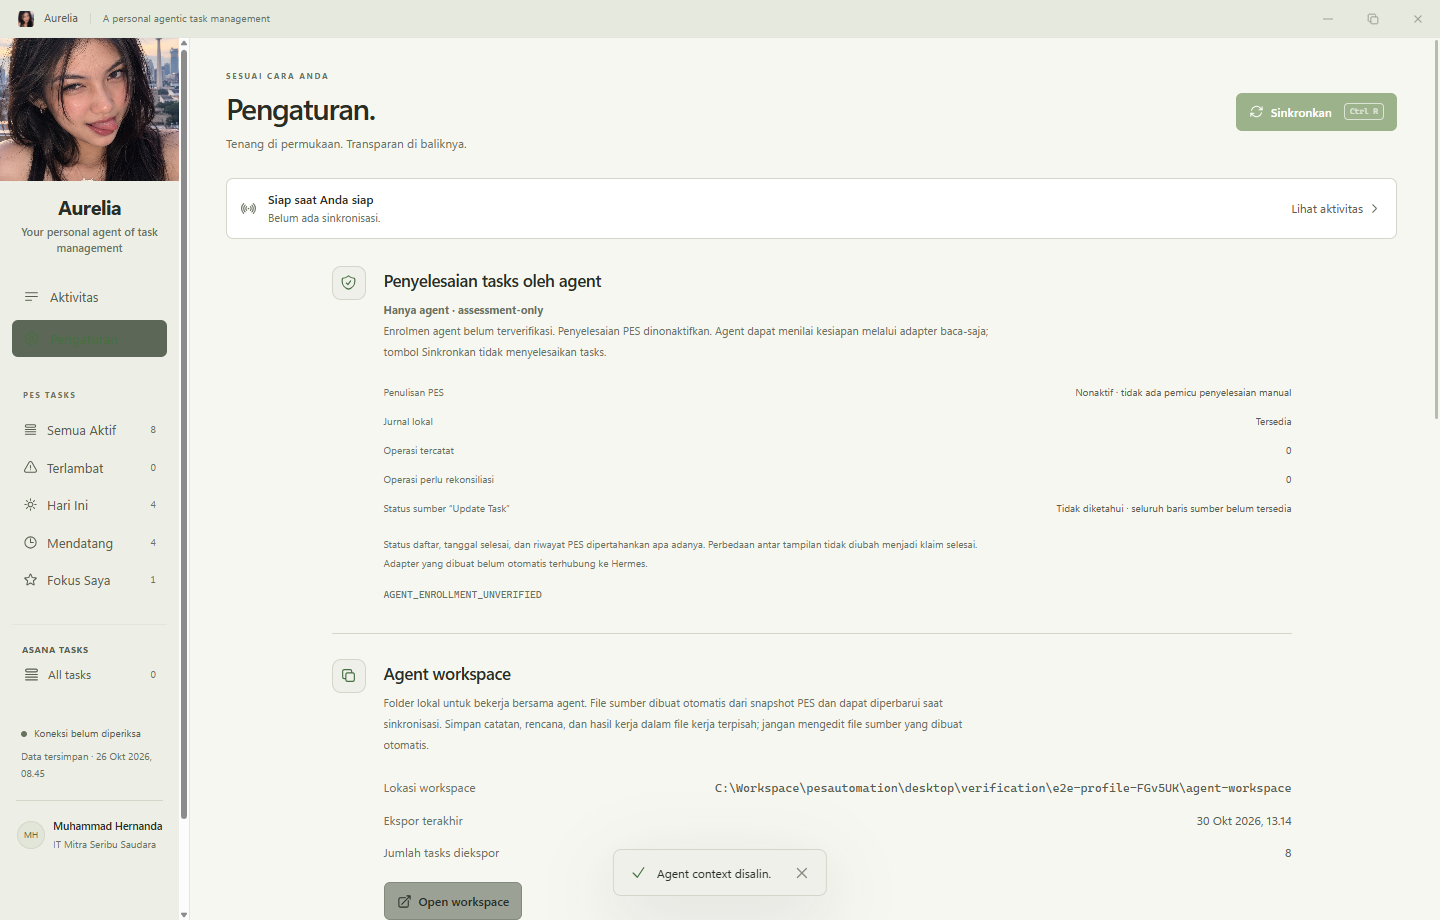
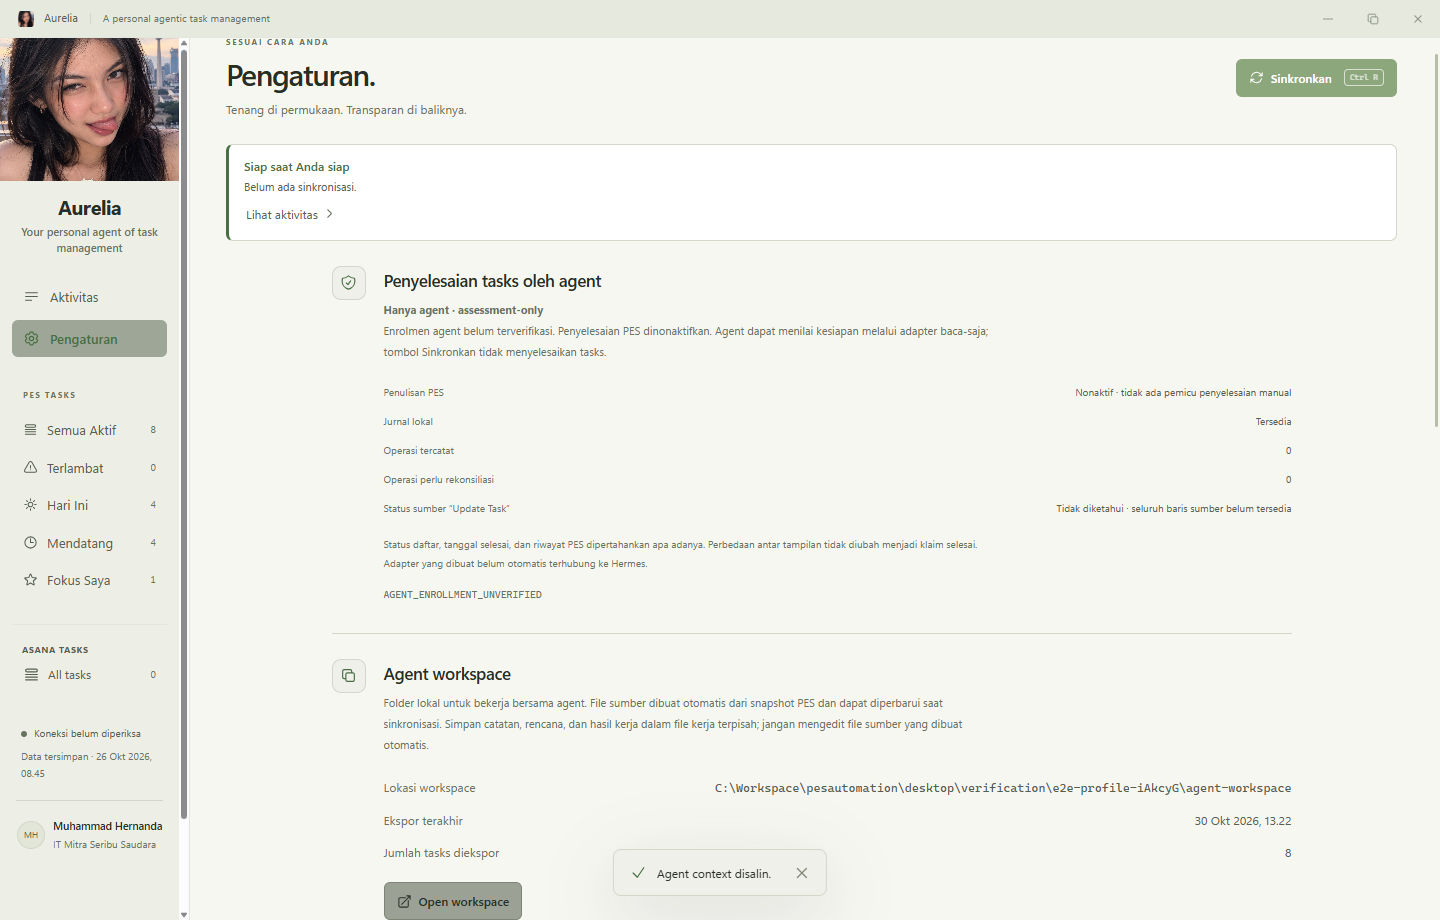
style: unify PES list spacing, typography, and layout rhythm with Asana

diff --git a/desktop/src/renderer/styles.css b/desktop/src/renderer/styles.css
@@ -54,52 +54,85 @@ body{font-size:14px}.task-row h3{font-size:14px;line-height:1.6}.task-id{font-si
 .pes-evidence-btns { display: flex; gap: 8px; margin-top: 4px; }
 .pes-evidence-btns .button { flex: 1; font-size: 11px; padding: 6px 10px; justify-content: center; }
 .pes-complete-btn { margin-top: 6px; width: 100%; justify-content: center; padding: 8px; font-weight: 600; gap: 8px; }
-/* PES Section Groups & Table Styling — Clean, structured like Asana */
+/* PES Section Groups & Table Styling — Fully aligned with Asana rhythm */
+.main.task-main { padding: 30px 28px 20px !important; flex: 1; min-width: 0; overflow: auto; overscroll-behavior: contain; scrollbar-gutter: stable; }
+.main.task-main .page-header { display: flex !important; align-items: flex-start !important; justify-content: space-between !important; gap: 20px !important; margin-bottom: 20px !important; }
+.main.task-main .page-header .eyebrow { color: var(--accent) !important; font-size: 10px !important; font-weight: 650 !important; letter-spacing: .13em !important; margin-bottom: 5px !important; text-transform: uppercase; }
+.main.task-main .page-header h1 { font-size: 30px !important; font-weight: 650 !important; letter-spacing: -.04em !important; line-height: 1.25 !important; margin: 0 !important; }
+.main.task-main .page-header p { margin-top: 7px !important; color: var(--text-secondary) !important; font-size: 12px !important; max-width: 56ch !important; line-height: 1.5 !important; }
+
+.sync-banner { display: flex !important; flex-direction: column !important; align-items: flex-start !important; gap: 4px !important; border: 1px solid var(--border-default) !important; border-left: 3px solid var(--accent) !important; border-radius: 7px !important; background: var(--bg-surface) !important; padding: 12px 15px !important; margin-bottom: 18px !important; }
+.sync-banner.error { border-color: var(--danger) !important; border-left: 3px solid var(--danger) !important; background: var(--danger-soft) !important; }
+.sync-banner-icon { display: none !important; }
+.sync-banner-text strong { color: var(--accent) !important; font-size: 12px !important; font-weight: 600 !important; }
+.sync-banner.error .sync-banner-text strong { color: var(--danger) !important; }
+.sync-banner-text span { color: var(--text-secondary) !important; font-size: 11px !important; margin-top: 2px !important; display: block !important; }
+
+.list-toolbar { display: flex !important; align-items: center !important; gap: 10px !important; margin-bottom: 14px !important; }
+.list-toolbar .search-field { flex: 1 !important; min-width: 0 !important; display: flex !important; align-items: center !important; gap: 9px !important; padding: 0 12px !important; background: var(--bg-surface) !important; border: 1px solid var(--border-default) !important; border-radius: 7px !important; min-height: 42px !important; height: 42px !important; }
+.list-toolbar .search-field:focus-within { border-color: var(--focus-ring) !important; outline: 1px solid var(--focus-ring) !important; }
+.list-toolbar .search-field svg { color: var(--text-muted) !important; width: 16px; height: 16px; }
+.list-toolbar .search-field input { width: 100% !important; flex: 1 !important; border: 0 !important; padding: 10px 0 !important; background: transparent !important; min-height: 40px !important; font-size: 13px !important; color: var(--text-primary) !important; }
+.list-toolbar .search-field input:focus-visible { outline: none !important; }
+.list-toolbar .filter-row { display: flex !important; align-items: center !important; gap: 8px !important; }
+.list-toolbar .select-wrap { position: relative !important; display: inline-flex !important; align-items: center !important; }
+.list-toolbar select { color: var(--text-primary) !important; background: var(--bg-surface) !important; border: 1px solid var(--border-default) !important; border-radius: 6px !important; min-height: 36px !important; height: 36px !important; padding: 0 12px 0 32px !important; font-size: 12px !important; }
+.list-toolbar .select-wrap svg { position: absolute !important; left: 10px !important; pointer-events: none !important; color: var(--text-muted) !important; width: 14px !important; height: 14px !important; }
+.list-toolbar .text-button { min-height: 36px !important; height: 36px !important; font-size: 12px !important; padding: 0 12px !important; border-radius: 6px !important; background: var(--bg-surface) !important; border: 1px solid var(--border-default) !important; color: var(--text-secondary) !important; }
+.list-toolbar .text-button:hover { background: var(--bg-elevated) !important; color: var(--text-primary) !important; }
+
+.summary { display: flex !important; align-items: center !important; gap: 18px !important; padding: 14px 0 10px !important; border-bottom: 0 !important; margin-bottom: 10px !important; font-size: 12px !important; }
+.summary > div { display: inline-flex !important; align-items: baseline !important; gap: 5px !important; font-size: 12px !important; }
+.summary strong { font-size: 13px !important; font-weight: 650 !important; letter-spacing: normal !important; font-variant-numeric: tabular-nums !important; color: var(--text-primary) !important; }
+.summary span { font-size: 11.5px !important; color: var(--text-muted) !important; }
+.summary-scope, .list-heading { display: none !important; }
+
 .pes-sr-only { position: absolute; width: 1px; height: 1px; padding: 0; margin: -1px; overflow: hidden; clip: rect(0, 0, 0, 0); border: 0; }
-.pes-group { margin-bottom: 20px; border: 1px solid var(--border-default); border-radius: 8px; background: var(--bg-surface); overflow: auto; }
-.pes-group-header { margin: 0; background: var(--bg-elevated); border-bottom: 1px solid var(--border-faint); display: flex; align-items: center; justify-content: space-between; }
-.pes-group-toggle { width: 100%; display: flex; align-items: center; gap: 9px; padding: 12px 16px; background: transparent; font-size: 12px; font-weight: 650; color: var(--text-primary); text-align: left; }
-.pes-group-toggle:hover { background: var(--bg-strong); }
-.pes-group-title { flex: 1; min-width: 0; font-size: 12px; font-weight: 650; letter-spacing: 0.3px; }
-.pes-group-badge { font-size: 11px; font-weight: 500; color: var(--text-muted); background: var(--bg-root); padding: 2px 10px; border-radius: 12px; border: 1px solid var(--border-faint); flex-shrink: 0; }
+.pes-group { margin-bottom: 18px !important; border: 1px solid var(--border-default) !important; border-radius: 8px !important; background: var(--bg-surface) !important; overflow: auto !important; }
+.pes-group-header { margin: 0 !important; background: var(--bg-elevated) !important; border-bottom: 1px solid var(--border-faint) !important; display: flex !important; align-items: center !important; justify-content: space-between !important; }
+.pes-group-toggle { flex: 1 !important; min-width: 0 !important; background: transparent !important; display: flex !important; align-items: center !important; gap: 9px !important; text-align: left !important; padding: 12px 14px !important; color: var(--text-primary) !important; font-size: 12px !important; font-weight: 600 !important; }
+.pes-group-toggle:hover { background: var(--bg-strong) !important; }
+.pes-group-title { flex: 1 !important; min-width: 0 !important; font-size: 12px !important; font-weight: 600 !important; }
+.pes-group-badge { color: var(--text-muted) !important; font-size: 10px !important; font-weight: 400 !important; background: transparent !important; border: 0 !important; padding: 0 !important; flex-shrink: 0 !important; }
 
-.pes-table { width: 100%; border-collapse: collapse; text-align: left; font-size: 12px; min-width: 720px; }
-.pes-table th { color: var(--text-muted); font-weight: 500; font-size: 10.5px; padding: 10px 14px; border-bottom: 1px solid var(--border-faint); white-space: nowrap; text-transform: uppercase; letter-spacing: 0.5px; }
-.pes-table td { padding: 12px 14px; border-bottom: 1px solid var(--border-faint); vertical-align: middle; color: var(--text-secondary); font-size: 12px; }
-.pes-table tr.task-row { display: table-row !important; border-bottom: 1px solid var(--border-faint); padding: 0 !important; cursor: pointer; transition: background 0.12s ease; }
+.pes-table { width: 100% !important; border-collapse: collapse !important; text-align: left !important; font-size: 12px !important; min-width: 620px !important; }
+.pes-table th { color: var(--text-muted) !important; font-weight: 500 !important; font-size: 10px !important; padding: 9px 13px !important; border-bottom: 1px solid var(--border-faint) !important; white-space: nowrap !important; text-transform: uppercase !important; letter-spacing: 0.5px !important; }
+.pes-table td { padding: 14px 13px !important; border-bottom: 1px solid var(--border-faint) !important; vertical-align: top !important; color: var(--text-secondary) !important; font-size: 12px !important; }
+.pes-table tr.task-row { display: table-row !important; border-bottom: 1px solid var(--border-faint) !important; padding: 0 !important; cursor: pointer; transition: background 0.12s ease; }
 .pes-table tr.task-row:hover { background: var(--bg-elevated) !important; }
-.pes-table tr.task-row.is-selected, .pes-table tr.task-row[data-selected="true"] { background: var(--accent-soft) !important; box-shadow: inset 3px 0 var(--accent); }
-.pes-table tr:last-child td { border-bottom: 0; }
+.pes-table tr.task-row.is-selected, .pes-table tr.task-row[data-selected="true"] { background: var(--accent-soft) !important; box-shadow: inset 3px 0 var(--accent) !important; }
+.pes-table tr:last-child td { border-bottom: 0 !important; }
 
-.pes-task-cell { width: 42%; min-width: 240px; }
+.pes-task-cell { width: 36% !important; min-width: 200px !important; }
 .pes-task-btn { display: block; width: 100%; background: transparent !important; border: 0 !important; padding: 0 !important; text-align: left; cursor: pointer; color: inherit; font: inherit; }
-.pes-task-btn h3 { font-size: 13.5px !important; font-weight: 600 !important; line-height: 1.5 !important; color: var(--text-primary); margin: 0 0 3px 0; transition: color 0.15s ease; }
+.pes-task-btn h3 { font-size: 13px !important; font-weight: 550 !important; color: var(--text-primary) !important; line-height: 1.65 !important; margin: 0 !important; transition: color 0.15s ease; }
 .pes-task-btn:hover h3 { color: var(--accent); text-decoration: underline; text-underline-offset: 3px; }
-.pes-row-desc { font-size: 11px; line-height: 1.5; color: var(--text-muted); margin: 3px 0 4px 0; display: -webkit-box; -webkit-line-clamp: 2; -webkit-box-orient: vertical; overflow: hidden; text-overflow: ellipsis; white-space: pre-wrap; word-break: break-word; }
-.pes-row-meta { display: flex; flex-wrap: wrap; align-items: center; gap: 6px 8px; margin-top: 4px; }
+.pes-row-desc { font-size: 11px !important; line-height: 1.5 !important; color: var(--text-muted) !important; margin: 3px 0 5px !important; display: -webkit-box !important; -webkit-line-clamp: 2 !important; -webkit-box-orient: vertical !important; overflow: hidden !important; text-overflow: ellipsis !important; white-space: pre-wrap !important; word-break: break-word !important; }
+.pes-row-meta { display: flex !important; flex-wrap: wrap !important; align-items: baseline !important; gap: 5px 10px !important; font-size: 10px !important; margin-top: 5px !important; }
+.pes-table .task-id { color: var(--text-muted) !important; font-size: 10px !important; }
 
-.pes-status-cell { width: 130px; white-space: nowrap; }
-.pes-target-cell { width: 110px; white-space: nowrap; }
+.pes-status-cell { width: 120px; white-space: nowrap; }
+.pes-target-cell { width: 105px; white-space: nowrap; }
 .pes-target-wrap { display: inline-flex; align-items: center; gap: 6px; }
 .pes-target-badge { font-weight: 600; font-size: 11px; padding: 2px 7px; border-radius: 4px; background: var(--bg-elevated); border: 1px solid var(--border-default); color: var(--text-primary); }
 .pes-bobot-text { font-size: 10.5px; color: var(--text-muted); }
 
-.pes-due-cell { width: 140px; white-space: nowrap; }
+.pes-due-cell { width: 135px; white-space: nowrap; }
 .pes-due-wrap { display: flex; flex-direction: column; gap: 2px; }
-.pes-due-date { font-size: 11.5px; font-weight: 500; color: var(--text-primary); }
+.pes-due-date { font-size: 11px; font-weight: 500; color: var(--text-primary); }
 .pes-deadline-label { font-size: 10.5px; color: var(--text-muted); display: inline-flex; align-items: center; gap: 4px; }
 .pes-deadline-label.overdue { color: var(--danger); font-weight: 600; }
 .pes-deadline-label.today { color: var(--accent); font-weight: 600; }
 .pes-deadline-label.completed { color: var(--text-muted); }
 
-.pes-finish-cell { width: 120px; white-space: nowrap; font-size: 11.5px; color: var(--text-secondary); }
-.pes-lampiran-cell { width: 130px; white-space: nowrap; }
-.pes-lampiran-badge { display: inline-flex; align-items: center; gap: 5px; font-size: 11px; color: var(--accent); max-width: 140px; overflow: hidden; text-overflow: ellipsis; white-space: nowrap; }
+.pes-finish-cell { width: 110px; white-space: nowrap; font-size: 11px; color: var(--text-secondary); }
+.pes-lampiran-cell { width: 125px; white-space: nowrap; }
+.pes-lampiran-badge { display: inline-flex; align-items: center; gap: 5px; font-size: 11px; color: var(--accent); max-width: 130px; overflow: hidden; text-overflow: ellipsis; white-space: nowrap; }
 .pes-action-cell { width: 44px; text-align: center; }
 
 /* Group Accents */
 .pes-group.pes-group-update-task .pes-group-header { border-left: 3px solid var(--accent); }
-.pes-group.pes-group-update-task .pes-group-badge { color: var(--accent); border-color: var(--accent); }
+.pes-group.pes-group-update-task .pes-group-badge { color: var(--accent) !important; }
 .pes-group.pes-group-completed { opacity: 0.92; }
 .pes-group.pes-group-completed .pes-group-header { border-left: 3px solid var(--text-muted); }
 
@@ -107,8 +140,23 @@ body{font-size:14px}.task-row h3{font-size:14px;line-height:1.6}.task-id{font-si
 .status-pill.status-done { background: var(--bg-elevated); color: var(--text-muted); border: 1px solid var(--border-default); }
 .status-pill.status-open { background: var(--bg-root); color: var(--text-primary); border: 1px solid var(--border-default); }
 .status-pill.status-approval { background: var(--accent-soft); color: var(--accent); border: 1px solid var(--border-default); }
-.update-task-stat strong { color: var(--accent); }
-.completed-stat strong { color: var(--text-muted); }
+.update-task-stat strong { color: var(--accent) !important; }
+.completed-stat strong { color: var(--text-muted) !important; }
 .deadline.completed { color: var(--text-muted); }
 .deadline-card.completed { background: var(--bg-surface); border: 1px solid var(--border-default); color: var(--text-secondary); }
 .deadline-card.completed strong { color: var(--text-primary); }
+
+/* Detail Drawer — identical to Asana */
+.detail-pane { border-left: 1px solid var(--border-default) !important; background: var(--bg-detail) !important; }
+.detail-header { display: flex !important; align-items: center !important; justify-content: space-between !important; gap: 10px !important; padding: 16px 20px !important; border-bottom: 1px solid var(--border-faint) !important; font-size: 11px !important; color: var(--text-secondary) !important; }
+.detail-scroll { padding: 24px 22px 30px !important; }
+.detail-title { font-size: 20px !important; line-height: 1.5 !important; font-weight: 600 !important; margin-top: 8px !important; color: var(--text-primary) !important; }
+.detail-actions { display: flex !important; flex-wrap: wrap !important; gap: 8px !important; margin-top: 18px !important; }
+.detail-actions .button { font-size: 11px !important; }
+.detail-section { border-top: 1px solid var(--border-faint) !important; padding-top: 16px !important; margin-top: 18px !important; border-bottom: 0 !important; }
+.detail-section h3 { font-size: 11px !important; color: var(--text-secondary) !important; font-weight: 650 !important; letter-spacing: .04em !important; margin-bottom: 12px !important; text-transform: uppercase !important; }
+.source-fields { margin: 0 !important; font-size: 12px !important; }
+.source-fields > div { display: grid !important; grid-template-columns: minmax(85px, .85fr) minmax(0, 1.15fr) !important; gap: 12px !important; padding: 7px 0 !important; border-bottom: 1px solid var(--border-faint) !important; }
+.source-fields > div:last-child { border-bottom: 0 !important; }
+.source-fields dt { color: var(--text-muted) !important; }
+.source-fields dd { margin: 0 !important; text-align: right !important; color: var(--text-secondary) !important; }
